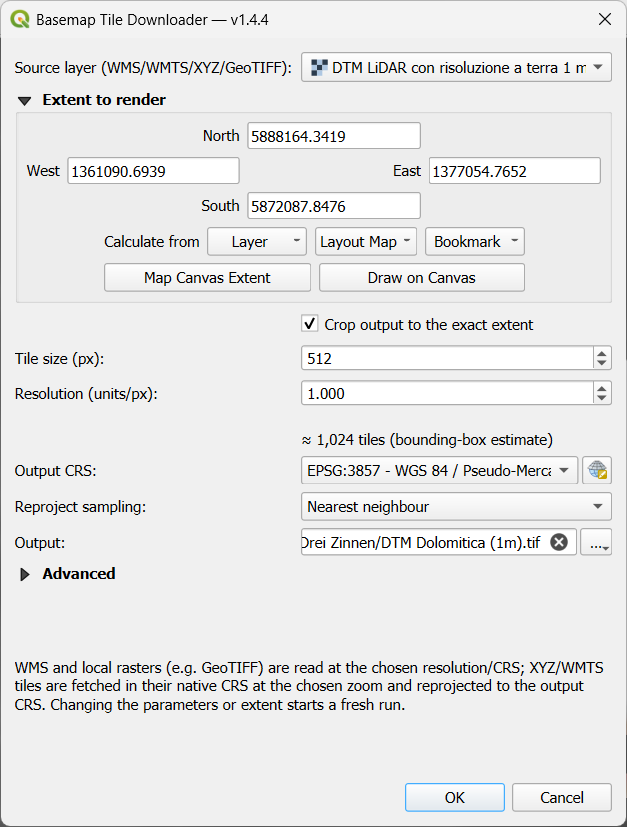
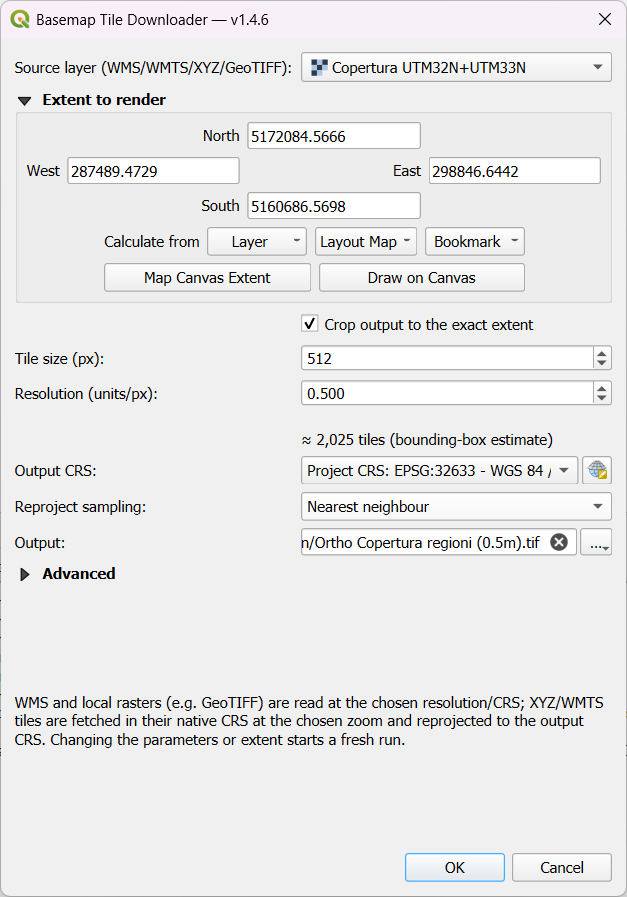
Release 1.4.8
- Rename cache folder btd_cache/ → __btdcache__/ (Python __pycache__ style)
- Clearer mosaic-build error messages (BuildVRT/Warp/Translate GDAL failures)
- WMTS zoom control shows a tile-matrix index, not a misleading m/px figure
- README refreshed (Advanced back-off/give-up options, circuit breaker, log
  panel, sync.ps1 in repo root); track sync.ps1

diff --git a/basemap_tile_downloader/engine.py b/basemap_tile_downloader/engine.py
@@ -23,7 +23,7 @@ A "source" module exposes:
 import os, json, sqlite3, logging, time, traceback, hashlib, uuid, configparser
 from collections import deque
 from concurrent.futures import ThreadPoolExecutor, wait, FIRST_COMPLETED
-from datetime import datetime
+from datetime import datetime, timezone
 
 from qgis.PyQt.QtCore   import QUrl
 from qgis.PyQt.QtNetwork import QNetworkRequest
@@ -72,7 +72,7 @@ CONCURRENCY              = 4       # default parallel tile fetches; a source may
                                    # dialog lets the user set it per run
 
 CLEANUP_TILES_AFTER_MOSAIC = False
-WORK_SUBDIR_NAME = "btd_cache"
+WORK_SUBDIR_NAME = "__btdcache__"
 LOG_TAB          = "Basemap Tile Downloader"
 TASK_DESC        = "Basemap tile download"
 
@@ -439,16 +439,16 @@ class TileQueue:
 
     def mark_attempt(self, tid, attempts):
         self._c.execute("UPDATE tiles SET attempts=?,updated_at=? WHERE id=?",
-                        (attempts, datetime.utcnow().isoformat(), tid))
+                        (attempts, datetime.now(timezone.utc).isoformat(), tid))
 
     def mark_done(self, tid, path):
         self._c.execute(
             "UPDATE tiles SET status='done',file_path=?,last_error=NULL,updated_at=? WHERE id=?",
-            (path, datetime.utcnow().isoformat(), tid))
+            (path, datetime.now(timezone.utc).isoformat(), tid))
 
     def mark_failed(self, tid, err):
         self._c.execute("UPDATE tiles SET status='failed',last_error=?,updated_at=? WHERE id=?",
-                        (str(err)[:2000], datetime.utcnow().isoformat(), tid))
+                        (str(err)[:2000], datetime.now(timezone.utc).isoformat(), tid))
 
     def done_file_paths(self):
         return [r[0] for r in self._c.execute(
@@ -498,9 +498,13 @@ def build_mosaic(tile_paths, work_dir, logger, tif_path, native_crs, out_crs,
     elif nodata is not None:
         vrt_opts["srcNodata"] = nodata
         vrt_opts["VRTNodata"] = nodata
-    ds = gdal.BuildVRT(vrt, tile_paths, options=gdal.BuildVRTOptions(**vrt_opts))
-    if ds is None:
-        raise DownloaderError("gdal.BuildVRT failed.")
+    # gdal.UseExceptions() is on, so a GDAL failure raises rather than returning
+    # None; wrap the calls so it surfaces as a clear DownloaderError (the run's
+    # generic handler would otherwise report a raw, cryptic GDAL message).
+    try:
+        ds = gdal.BuildVRT(vrt, tile_paths, options=gdal.BuildVRTOptions(**vrt_opts))
+    except Exception as e:
+        raise DownloaderError(f"gdal.BuildVRT failed: {e}")
     ds = None
 
     creation = ["COMPRESS=DEFLATE", "PREDICTOR=2", "TILED=YES",
@@ -509,23 +513,24 @@ def build_mosaic(tile_paths, work_dir, logger, tif_path, native_crs, out_crs,
     reproject = (out_crs and native_crs and out_crs.upper() != native_crs.upper())
     warp_alg  = "near" if resample == "none" else resample
     # A cutline must be applied with Warp, so warp even when not reprojecting.
-    if reproject or cutline:
-        warp_kwargs = dict(format="GTiff", dstSRS=out_crs, resampleAlg=warp_alg,
-                           creationOptions=creation, multithread=True)
-        if not add_alpha and nodata is not None:
-            warp_kwargs.update(srcNodata=nodata, dstNodata=nodata)
-        if cutline:
-            warp_kwargs.update(cutlineDSName=cutline, cropToCutline=True)
-        logger.info("Warp VRT → %s (%s → %s, resample=%s%s)",
-                    tif, native_crs, out_crs, warp_alg,
-                    ", clip=extent" if cutline else "")
-        ds = gdal.Warp(tif, vrt, options=gdal.WarpOptions(**warp_kwargs))
-    else:
-        logger.info("Translate VRT → %s (%s)", tif, native_crs)
-        ds = gdal.Translate(tif, vrt, options=gdal.TranslateOptions(
-            format="GTiff", creationOptions=creation))
-    if ds is None:
-        raise DownloaderError("Mosaic creation failed.")
+    try:
+        if reproject or cutline:
+            warp_kwargs = dict(format="GTiff", dstSRS=out_crs, resampleAlg=warp_alg,
+                               creationOptions=creation, multithread=True)
+            if not add_alpha and nodata is not None:
+                warp_kwargs.update(srcNodata=nodata, dstNodata=nodata)
+            if cutline:
+                warp_kwargs.update(cutlineDSName=cutline, cropToCutline=True)
+            logger.info("Warp VRT → %s (%s → %s, resample=%s%s)",
+                        tif, native_crs, out_crs, warp_alg,
+                        ", clip=extent" if cutline else "")
+            ds = gdal.Warp(tif, vrt, options=gdal.WarpOptions(**warp_kwargs))
+        else:
+            logger.info("Translate VRT → %s (%s)", tif, native_crs)
+            ds = gdal.Translate(tif, vrt, options=gdal.TranslateOptions(
+                format="GTiff", creationOptions=creation))
+    except Exception as e:
+        raise DownloaderError(f"Mosaic creation failed: {e}")
     ds.BuildOverviews("AVERAGE", [2, 4, 8, 16])
     ds = None
     return vrt, tif

diff --git a/basemap_tile_downloader/dialog.py b/basemap_tile_downloader/dialog.py
@@ -302,8 +302,10 @@ class BasemapTileDialog(QDialog):
         self._set_row_visible(self.tile_lbl, self.tile_spin, is_grid)
         self._set_row_visible(self.res_lbl,  self.res_spin,  is_grid)
         self._set_row_visible(self.zoom_lbl, self.zoom_spin, is_zoom)
-        # The m/px note only applies to XYZ's fixed Web-Mercator grid.
-        self._set_row_visible(self.zoom_res_lbl, self.zoom_res_info, name == "XYZ")
+        # Show the note for both zoom sources: XYZ gets a Web-Mercator m/px
+        # figure, WMTS a "tile-matrix index" note (its resolution is set by the
+        # service, not a fixed grid) — see _update_zoom_label.
+        self._set_row_visible(self.zoom_res_lbl, self.zoom_res_info, is_zoom)
         self._clamp_zoom_range(name)
         self._update_zoom_label()
 
@@ -350,6 +352,13 @@ class BasemapTileDialog(QDialog):
 
     def _update_zoom_label(self, *args):
         z = self.zoom_spin.value()
+        if self._current_source_name() == "WMTS":
+            # WMTS addresses tile matrices by index, and the true resolution comes
+            # from the service's tile matrix set (often not Web Mercator), so a
+            # Web-Mercator m/px figure here would be misleading — don't show one.
+            self.zoom_res_info.setText(
+                "tile-matrix index (resolution set by the service)")
+            return
         lat = self._extent_center_lat()
         if lat is None:
             self.zoom_res_info.setText(

diff --git a/basemap_tile_downloader/sources/xyz.py b/basemap_tile_downloader/sources/xyz.py
@@ -42,6 +42,9 @@ def extract_params(layer):
     def _int(v, default):
         try: return int(v)
         except (TypeError, ValueError): return default
+    # zmin/zmax are the zoom range the layer advertises; the tile grid ignores
+    # them (it uses the chosen `zoom`), but the dialog reads them to clamp the
+    # zoom spinner to what the source actually serves.
     return {"template": template,
             "zmin": _int(uri.param("zmin"), 0),
             "zmax": _int(uri.param("zmax"), 22)}

diff --git a/README.md b/README.md
@@ -43,9 +43,11 @@ this repository (the repo root holds the README, licence and screenshots).
 
 The tool then appears under **Raster ▸ Basemap Tile Downloader…** and on the toolbar.
 
-> If you are developing, `sync.ps1` in the parent folder mirrors every plugin
-> package here into the QGIS plugins folder; pair it with the *Plugin Reloader*
-> plugin.
+> If you are developing, run `sync.ps1` in the repo root (`pwsh -File sync.ps1`)
+> to mirror this plugin into your QGIS plugins folder; pair it with the *Plugin
+> Reloader* plugin. (The script finds any plugin package — a folder with a
+> `metadata.txt` — under its own directory, so it also works from a parent
+> folder holding several plugin repos.)
 
 ## Usage
 
@@ -144,17 +146,27 @@ Notes:
   reprojection, no resampling).
 - **Crop output to the exact extent** trims the tile-aligned mosaic to the
   precise extent rectangle.
-- **Parallel downloads**, **Maximum attempts per tile** and **Minimum delay
-  between requests** are in the collapsible **Advanced** section. Lower the
-  parallel downloads (1–2) for strict servers that reject many simultaneous
-  connections; WMS defaults to 2, XYZ/WMTS to 4. The **minimum delay** (default
-  0 s) is a floor on the pace — raise it (e.g. 2 s) to pin a known-good rate for
-  a strict server; at 0 the adaptive throttle sets the pace on its own.
+- The collapsible **Advanced** section holds the tuning knobs:
+  - **Parallel downloads** — lower it (1–2) for strict servers that reject many
+    simultaneous connections; WMS defaults to 2, XYZ/WMTS to 4.
+  - **Maximum attempts per tile** — how many times a tile is retried before it is
+    marked failed.
+  - **Minimum delay between requests** (default 0 s) — a floor on the pace; raise
+    it (e.g. 2 s) to pin a known-good rate for a strict server. At 0 the adaptive
+    throttle sets the pace on its own.
+  - **Back-off cap** (default 30 s) — the longest the adaptive throttle will wait
+    between requests while a server is throttling/erroring. Lower it to retry
+    sooner (more aggressive); raise it to be gentler.
+  - **Give up after (server errors in a row)** (default 30) — stop the run when
+    this many requests in a row fail with no success (a server refusing a block
+    of tiles), then build a partial mosaic from what downloaded and leave the
+    rest for a re-run. Set it to 0 (“Never”) to keep only the per-tile limit.
 - If you **cancel** a run, the mosaic is still built from whatever downloaded so
   far (with gaps where tiles are missing), and re-running fills in the rest.
 
-Click **OK** to start. Progress is shown in the Task Manager, and the finished
-mosaic is added to the project automatically.
+Click **OK** to start. Progress is shown in the Task Manager, the live run log
+opens in the **Log Messages** panel (the *Basemap Tile Downloader* tab), and the
+finished mosaic is added to the project automatically.
 
 ## Q & A
 
@@ -180,8 +192,14 @@ server cooperates. If a specific server keeps failing many parallel requests,
 lower **Parallel downloads** (to 1–2). For XYZ, `404`/`204` tiles are treated as
 legitimate gaps (no data at that tile).
 
+If a server refuses a whole block of tiles and keeps failing every request, the
+run **stops early** rather than grinding for hours (“Server unavailable — stopped
+early…”): it builds a partial mosaic from what downloaded and leaves the rest to
+a re-run. You can tune when this kicks in with **Give up after** / **Back-off
+cap** in the Advanced section (see above).
+
 If the *same* tiles keep failing no matter how often you re-run, open
-`download.log` (in the `btd_cache/` folder next to your project) and read the
+`download.log` (in the `__btdcache__/` folder next to your project) and read the
 per-tile errors: the service may simply not have data for that area. A WMS
 `ServiceException` such as *"Unable to access file … tile_33_12.shp"*, or errors
 confined to one part of the extent, usually mean the provider can't serve that
@@ -229,6 +247,8 @@ engine.run(layer=wms, extent=extent, extent_crs=extent_crs,
            clip=True,                      # crop to the exact extent
            concurrency=2,                  # parallel tile fetches
            min_delay=0,                    # floor (s) on the pace; 0 = adaptive
+           backoff_cap=30,                 # s; adaptive back-off ceiling
+           giveup_after=30,                # consecutive failures → stop; 0 = never
            output_path=r"C:\Users\you\output.tif")  # or temporary=True for a temp file
 ```
 

diff --git a/CHANGELOG.md b/CHANGELOG.md
@@ -5,6 +5,24 @@ The format is based on [Keep a Changelog](https://keepachangelog.com/).
 
 ## [Unreleased]
 
+## [1.4.8] - 2026-07-04
+### Changed
+- Renamed the cache/work folder `btd_cache/` → `__btdcache__/` (next to the
+  project, or in the QGIS profile), aligning with Python's `__pycache__`
+  convention. An in-progress resumable queue in an old `btd_cache/` won't carry
+  over — delete the stale folder, or just re-run to rebuild.
+- README refreshed: documented the **Back-off cap** and **Give up after**
+  Advanced options and the circuit-breaker "stopped early" behavior, noted that
+  the run raises the **Log Messages** panel, added the new `backoff_cap` /
+  `giveup_after` kwargs to the Python-console example, and corrected the
+  `sync.ps1` developer note (it lives in the repo root).
+### Fixed
+- Mosaic-build GDAL failures now surface as a clear `Mosaic creation failed: …`
+  message instead of a raw, cryptic GDAL exception.
+- The WMTS zoom control no longer shows a misleading Web-Mercator m/px figure —
+  it is a tile-matrix index, and the real resolution comes from the service's
+  tile matrix set.
+
 ## [1.4.7] - 2026-07-04
 ### Fixed
 - The task progress bar no longer sits frozen at the last fetch percentage